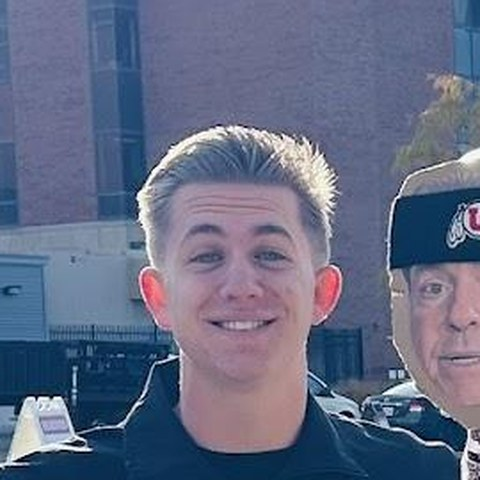
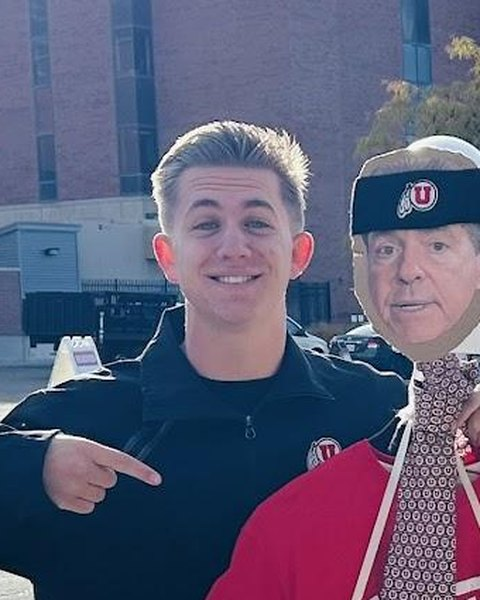
About page: vertical headshots beside names
Claude-Session: https://claude.ai/code/session_01DiiQ2EzgH5q42jVHAnM8ha

diff --git a/about.html b/about.html
@@ -25,8 +25,8 @@
 .team { list-style: none; margin: 0; padding: 2rem 0 4rem; display: grid; gap: 1.25rem; }
 @media (min-width: 52rem) { .team { grid-template-columns: repeat(3, 1fr); } }
 .member { background: var(--ink-2); border: 1px solid var(--line); border-top: 3px solid var(--purple); border-radius: 4px; padding: 1.5rem; display: flex; flex-direction: column; }
-.member-head { display: flex; align-items: center; gap: 1.1rem; margin-bottom: 1.25rem; }
-.member .photo { flex: none; display: block; width: 6.5rem; height: 6.5rem; border-radius: 50%; object-fit: cover; border: 3px solid var(--purple); background: var(--line); }
+.member-head { display: flex; align-items: flex-end; gap: 1.1rem; margin-bottom: 1.25rem; }
+.member .photo { flex: none; display: block; width: 7.5rem; height: auto; aspect-ratio: 4 / 5; border-radius: 4px; object-fit: cover; background: var(--line); }
 .member-head .role { margin: 0; }
 .member h3 { font-family: var(--display); text-transform: uppercase; font-weight: 800; font-stretch: 104%; font-size: 1.5rem; line-height: 1; letter-spacing: -0.01em; margin: 0 0 0.45rem; color: var(--paper); }
 .member .role { font-family: var(--mono); text-transform: uppercase; letter-spacing: 0.12em; font-size: 0.75rem; font-weight: 600; color: var(--purple); margin: 0 0 1.1rem; }
@@ -81,7 +81,7 @@
     <ul class="team">
       <li class="member" id="preston">
         <div class="member-head">
-          <img class="photo" src="team-preston.jpg?v=2" alt="Preston Thompson" width="480" height="480" loading="lazy">
+          <img class="photo" src="team-preston.jpg?v=3" alt="Preston Thompson" width="480" height="600" loading="lazy">
           <div>
             <h3>Preston Thompson</h3>
             <p class="role">Founder &amp; Creator</p>
@@ -95,7 +95,7 @@
 
       <li class="member" id="tyler">
         <div class="member-head">
-          <img class="photo" src="team-tyler.jpg?v=2" alt="Tyler Angerbauer" width="480" height="480" loading="lazy">
+          <img class="photo" src="team-tyler.jpg?v=3" alt="Tyler Angerbauer" width="480" height="600" loading="lazy">
           <div>
             <h3>Tyler Angerbauer</h3>
             <p class="role">Lead Beat Writer</p>
@@ -108,7 +108,7 @@
 
       <li class="member" id="brooks">
         <div class="member-head">
-          <img class="photo" src="team-brooks.jpg?v=2" alt="Brooks Barney" width="480" height="480" loading="lazy">
+          <img class="photo" src="team-brooks.jpg?v=3" alt="Brooks Barney" width="480" height="600" loading="lazy">
           <div>
             <h3>Brooks Barney</h3>
             <p class="role">Lead Content Producer</p>
